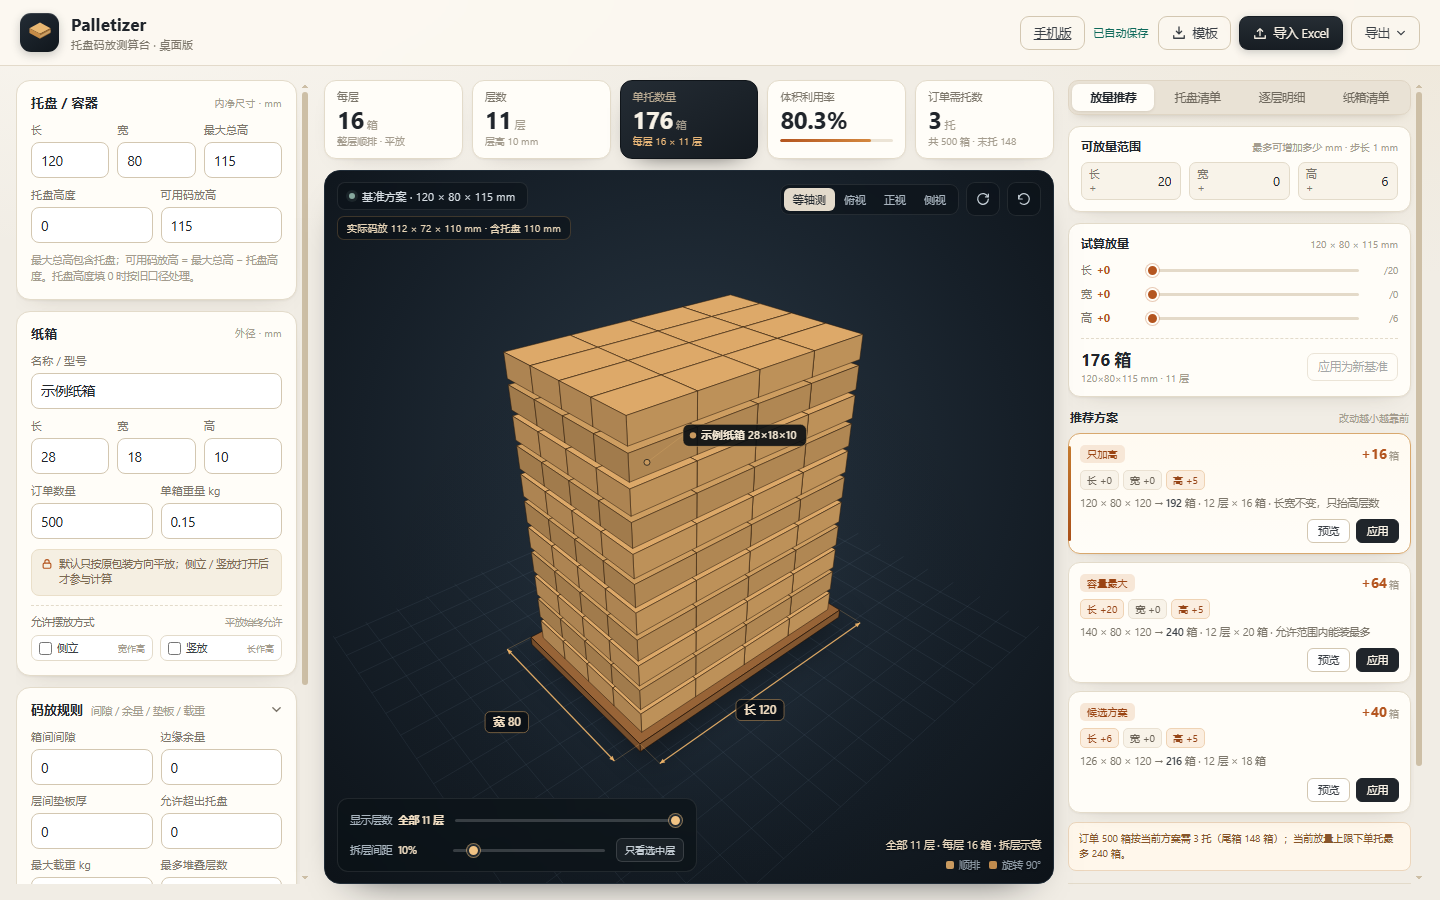
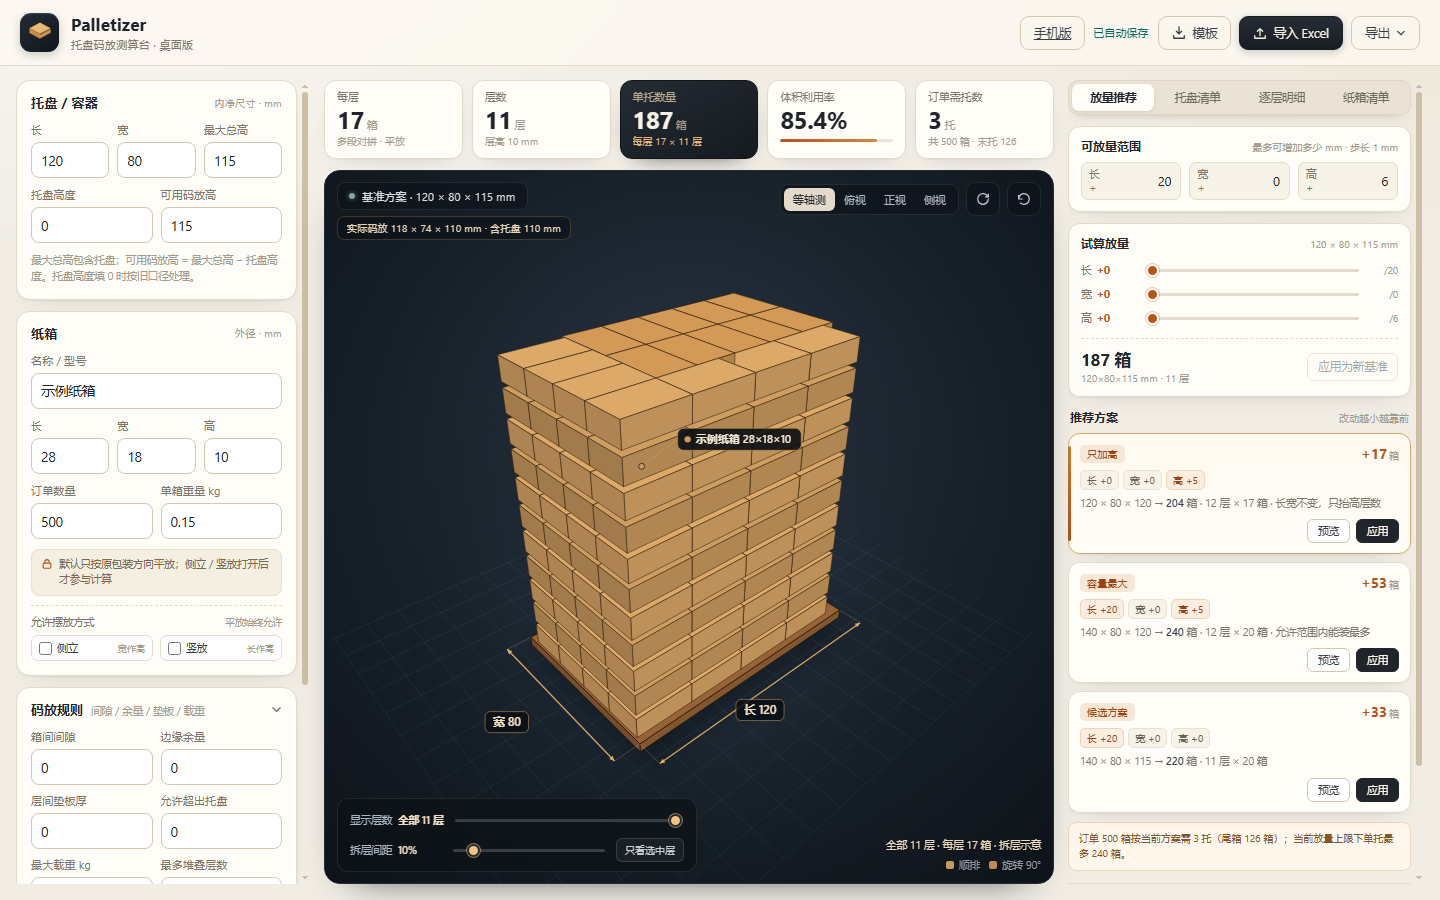
Palletizer v1.8: multi-segment guillotine layer packing

diff --git a/desktop/js/core.js b/desktop/js/core.js
@@ -126,6 +126,93 @@
     return best;
   }
 
+  /* 多段递归对拼：允许在一条带里再切一条，把残留区域补满 */
+  function guillotinePattern(L, W, a, b, gap, depth) {
+    depth = depth == null ? 2 : depth;
+    var memo = new Map();
+
+    function bestGrid(l, w) {
+      var g1 = grid(l, w, a, b, gap, false);
+      var g2 = Math.abs(a - b) > EPS ? grid(l, w, b, a, gap, true) : null;
+      var best = g1;
+      if (g2 && (!best || g2.count > best.count)) best = g2;
+      return best;
+    }
+
+    function positions(P) {
+      var set = {};
+      [a, b].forEach(function (d) {
+        if (!(d > EPS)) return;
+        for (var i = 1; i < 200; i++) {
+          var p = i * (d + gap);
+          if (p >= P - EPS) break;
+          if (p > EPS) set[p] = 1;
+          var q = P - p - gap;
+          if (q > EPS) set[q] = 1;
+        }
+      });
+      return Object.keys(set).map(Number).sort(function (x, y) { return x - y; }).slice(0, 80);
+    }
+
+    function solveRect(l, w, d) {
+      if (!(l > EPS) || !(w > EPS)) return { count: 0, rects: [] };
+      var key = round(l, 3) + ':' + round(w, 3) + ':' + d;
+      if (memo.has(key)) return memo.get(key);
+
+      var direct = bestGrid(l, w);
+      var best = direct ? {
+        count: direct.count,
+        rects: direct.rects.slice()
+      } : { count: 0, rects: [] };
+
+      if (d > 0) {
+        var xs = positions(l);
+        for (var i = 0; i < xs.length; i++) {
+          var x = xs[i];
+          var rw = l - x - gap;
+          if (!(rw > EPS)) continue;
+          var left = solveRect(x, w, d - 1);
+          var right = solveRect(rw, w, d - 1);
+          var count = left.count + right.count;
+          if (count > best.count) {
+            best = {
+              count: count,
+              rects: left.rects.concat(right.rects.map(function (r) {
+                return makeRect(r.x + x + gap, r.y, r.w, r.h, r.rot);
+              }))
+            };
+          }
+        }
+
+        var ys = positions(w);
+        for (var j = 0; j < ys.length; j++) {
+          var y = ys[j];
+          var rh = w - y - gap;
+          if (!(rh > EPS)) continue;
+          var top = solveRect(l, y, d - 1);
+          var bottom = solveRect(l, rh, d - 1);
+          var c2 = top.count + bottom.count;
+          if (c2 > best.count) {
+            best = {
+              count: c2,
+              rects: top.rects.concat(bottom.rects.map(function (r) {
+                return makeRect(r.x, r.y + y + gap, r.w, r.h, r.rot);
+              }))
+            };
+          }
+        }
+      }
+
+      memo.set(key, best);
+      return best;
+    }
+
+    var result = solveRect(L, W, depth);
+    if (!result.count) return null;
+    var bb = bounds(result.rects);
+    return { count: result.count, rects: result.rects, usedW: bb.w, usedH: bb.h };
+  }
+
   /* 行/列混排：每一行（列）可以单独选择朝向，动态规划求最优 */
   function stripPattern(L, W, a, b, gap, alongX) {
     var P = alongX ? L : W; // 条带延伸方向
@@ -281,6 +368,7 @@
     if (Math.abs(a - b) > EPS) add(grid(L, W, b, a, gap, true), '整层旋转 90°', 'grid90', 5);
     add(splitPattern(L, W, a, b, gap, true), '纵向对拼', 'splitX', 4);
     add(splitPattern(L, W, a, b, gap, false), '横向对拼', 'splitY', 4);
+    add(guillotinePattern(L, W, a, b, gap, 2), '多段对拼', 'guillotine', 4);
     add(stripPattern(L, W, a, b, gap, true), '横向混排', 'rows', 3);
     add(stripPattern(L, W, a, b, gap, false), '纵向混排', 'cols', 3);
     add(pinwheelPattern(L, W, a, b, gap), '风车拼花', 'pinwheel', 2);
@@ -1765,7 +1853,7 @@
   }
 
   return {
-    version: '1.7.0',
+    version: '1.8.0',
     DEFAULTS: DEFAULTS,
     normalize: normalize,
     orientations: orientations,

diff --git a/js/core.js b/js/core.js
@@ -126,6 +126,93 @@
     return best;
   }
 
+  /* 多段递归对拼：允许在一条带里再切一条，把残留区域补满 */
+  function guillotinePattern(L, W, a, b, gap, depth) {
+    depth = depth == null ? 2 : depth;
+    var memo = new Map();
+
+    function bestGrid(l, w) {
+      var g1 = grid(l, w, a, b, gap, false);
+      var g2 = Math.abs(a - b) > EPS ? grid(l, w, b, a, gap, true) : null;
+      var best = g1;
+      if (g2 && (!best || g2.count > best.count)) best = g2;
+      return best;
+    }
+
+    function positions(P) {
+      var set = {};
+      [a, b].forEach(function (d) {
+        if (!(d > EPS)) return;
+        for (var i = 1; i < 200; i++) {
+          var p = i * (d + gap);
+          if (p >= P - EPS) break;
+          if (p > EPS) set[p] = 1;
+          var q = P - p - gap;
+          if (q > EPS) set[q] = 1;
+        }
+      });
+      return Object.keys(set).map(Number).sort(function (x, y) { return x - y; }).slice(0, 80);
+    }
+
+    function solveRect(l, w, d) {
+      if (!(l > EPS) || !(w > EPS)) return { count: 0, rects: [] };
+      var key = round(l, 3) + ':' + round(w, 3) + ':' + d;
+      if (memo.has(key)) return memo.get(key);
+
+      var direct = bestGrid(l, w);
+      var best = direct ? {
+        count: direct.count,
+        rects: direct.rects.slice()
+      } : { count: 0, rects: [] };
+
+      if (d > 0) {
+        var xs = positions(l);
+        for (var i = 0; i < xs.length; i++) {
+          var x = xs[i];
+          var rw = l - x - gap;
+          if (!(rw > EPS)) continue;
+          var left = solveRect(x, w, d - 1);
+          var right = solveRect(rw, w, d - 1);
+          var count = left.count + right.count;
+          if (count > best.count) {
+            best = {
+              count: count,
+              rects: left.rects.concat(right.rects.map(function (r) {
+                return makeRect(r.x + x + gap, r.y, r.w, r.h, r.rot);
+              }))
+            };
+          }
+        }
+
+        var ys = positions(w);
+        for (var j = 0; j < ys.length; j++) {
+          var y = ys[j];
+          var rh = w - y - gap;
+          if (!(rh > EPS)) continue;
+          var top = solveRect(l, y, d - 1);
+          var bottom = solveRect(l, rh, d - 1);
+          var c2 = top.count + bottom.count;
+          if (c2 > best.count) {
+            best = {
+              count: c2,
+              rects: top.rects.concat(bottom.rects.map(function (r) {
+                return makeRect(r.x, r.y + y + gap, r.w, r.h, r.rot);
+              }))
+            };
+          }
+        }
+      }
+
+      memo.set(key, best);
+      return best;
+    }
+
+    var result = solveRect(L, W, depth);
+    if (!result.count) return null;
+    var bb = bounds(result.rects);
+    return { count: result.count, rects: result.rects, usedW: bb.w, usedH: bb.h };
+  }
+
   /* 行/列混排：每一行（列）可以单独选择朝向，动态规划求最优 */
   function stripPattern(L, W, a, b, gap, alongX) {
     var P = alongX ? L : W; // 条带延伸方向
@@ -281,6 +368,7 @@
     if (Math.abs(a - b) > EPS) add(grid(L, W, b, a, gap, true), '整层旋转 90°', 'grid90', 5);
     add(splitPattern(L, W, a, b, gap, true), '纵向对拼', 'splitX', 4);
     add(splitPattern(L, W, a, b, gap, false), '横向对拼', 'splitY', 4);
+    add(guillotinePattern(L, W, a, b, gap, 2), '多段对拼', 'guillotine', 4);
     add(stripPattern(L, W, a, b, gap, true), '横向混排', 'rows', 3);
     add(stripPattern(L, W, a, b, gap, false), '纵向混排', 'cols', 3);
     add(pinwheelPattern(L, W, a, b, gap), '风车拼花', 'pinwheel', 2);
@@ -1765,7 +1853,7 @@
   }
 
   return {
-    version: '1.6.0',
+    version: '1.8.0',
     DEFAULTS: DEFAULTS,
     normalize: normalize,
     orientations: orientations,

diff --git a/index.html b/index.html
@@ -136,7 +136,7 @@
     <section class="card settings-hero">
       <div class="brand-mark large">P</div>
       <div><h2>Palletizer</h2><p>托盘码放测算台</p></div>
-      <span class="version">v1.7</span>
+      <span class="version">v1.8</span>
     </section>
     <section class="card">
       <h2 class="card-title">数据</h2>

diff --git a/js/mobile.js b/js/mobile.js
@@ -4,7 +4,7 @@
   var Core = window.PalletCore;
   var XL = window.XlsxLite;
   var KEY = 'palletizer.v1';
-  var VERSION = '1.7.0';
+  var VERSION = '1.8.0';
   var PALETTE = ['#C99A5F', '#9FB3A6', '#C7A6A0', '#B1A3C9', '#D1B280', '#8FA9B8'];
 
   var DEFAULTS = {

diff --git a/sw.js b/sw.js
@@ -1,5 +1,5 @@
 /* Palletizer 离线缓存 */
-const CACHE = 'palletizer-v1.7.0';
+const CACHE = 'palletizer-v1.8.0';
 const ASSETS = [
   './',
   './index.html',

diff --git a/README.md b/README.md
@@ -3,7 +3,7 @@
 **托盘码放测算台**  
 A responsive pallet loading calculator for iPhone, iPad and desktop.
 
-**v1.7：电脑桌面自动进入原三栏版布局；iPhone / iPad 保持手机版布局；桌面地址 /desktop/。**
+**v1.8：多段对拼补空（1072 / 410×130 从 18 提升到 19 箱/层）；电脑桌面原三栏工作台；iPhone / iPad 手机版布局。**
 
 > 目标部署地址：<https://taneli888.github.io/palletizer/>  
 > GitHub 仓库：<https://github.com/taneli888/palletizer>  
@@ -91,7 +91,14 @@ https://taneli888.github.io/palletizer/desktop/
 
 - 桌面版是宽屏三栏，手机版是单列 + 底部 Tab；
 - 手机版默认示例改成 1072×1072、3 种纸箱，打开即可看到混托 / 3D；
-- 核心计算直接复用桌面版的 `core.js`：分层、风车拼花、同层混装、全局省托、托盘高度都一致；
+- 核心计算直接复用桌面版的 `core.js`：分层、风车拼花、**多段对拼补空**、同层混装、全局省托、托盘高度都一致；
+
+单层算法会同时比较顺排、旋转、对拼、行列混排、多段对拼和风车。比如 1072×1072 托盘放 410×130 纸箱：
+
+- 原来的两段对拼是 18 箱/层，右侧留有空区；
+- 多段对拼会在一条带里再切一段，把残留区域补上，得到 **19 箱/层**。
+
+![1072×1072 放 410×130：多段对拼 19 箱/层](docs/gapfill-1072.png)
 - 手机版没有桌面版的放量推荐曲线，保留了最常用的装托、混托、3D、导入导出。
 
 ## 目录
